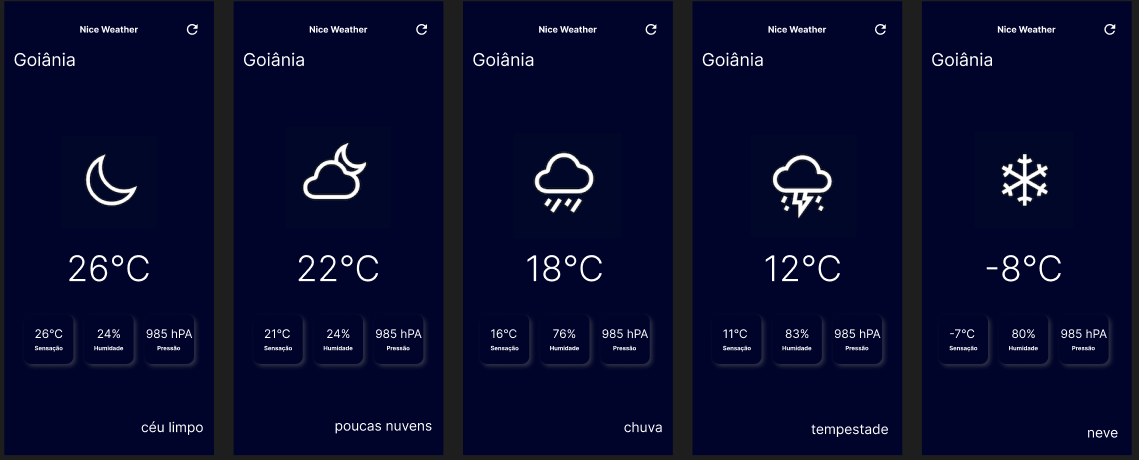
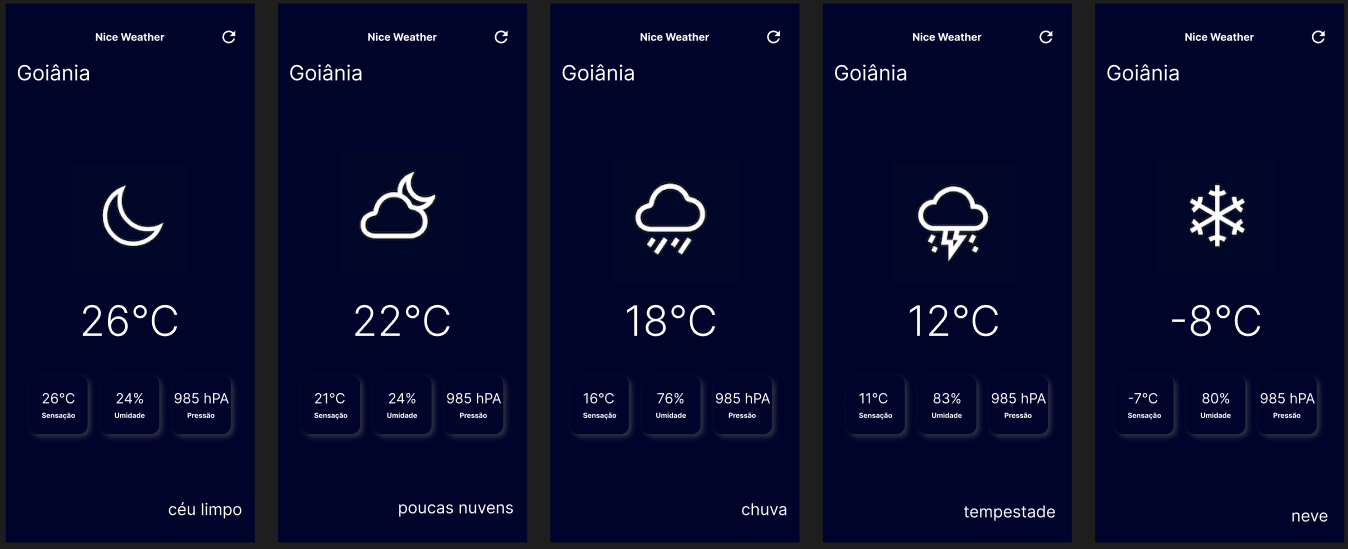
Screen shots update

diff --git a/src/screens/Home/index.tsx b/src/screens/Home/index.tsx
@@ -235,7 +235,7 @@ const Home: React.FC = () => {
                   <WeatherCardTitle>{`${Math.round(
                     humidity
                   )}%`}</WeatherCardTitle>
-                  <WeatherCardSubtitle>Humidade</WeatherCardSubtitle>
+                  <WeatherCardSubtitle>Umidade</WeatherCardSubtitle>
                 </WeatherCard>
 
                 <WeatherCard
